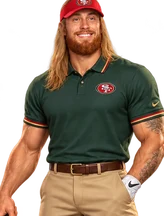
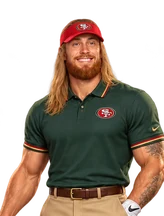
Fix portrait headroom and dim disabled game sliders

diff --git a/games/chaising-birdies/index.html b/games/chaising-birdies/index.html
@@ -25,10 +25,10 @@
   <link rel="preload" as="image" href="fairway-title-mobile.webp?v=1" media="(max-width:700px)" fetchpriority="high">
   <link rel="preload" as="image" href="fairway-title-desktop.webp?v=1" media="(min-width:701px)" fetchpriority="high">
   <link rel="preload" as="font" href="anton-latin.woff2" type="font/woff2" crossorigin>
-  <link rel="stylesheet" href="game.css?v=49">
+  <link rel="stylesheet" href="game.css?v=50">
   <script src="ball-physics.js?v=2" defer></script>
   <script src="player-skills.js?v=1" defer></script>
-  <script src="game.js?v=37" defer></script>
+  <script src="game.js?v=38" defer></script>
   <script type="application/ld+json">
 {
   "@context": "https://schema.org",

diff --git a/games/chaising-birdies/game.js b/games/chaising-birdies/game.js
@@ -56,7 +56,7 @@
   function portrait(character, attire) {
     const c = characters[character], wrapper = el('div', undefined, 'portrait');
     const img = el('img', undefined, 'player-portrait');
-    img.src = `players/${c.artwork}-portrait-${attire}.webp`;
+    img.src = `players/${c.artwork}-portrait-${attire}.webp?v=2`;
     img.width = 164; img.height = 216;
     img.loading = 'lazy';
     img.alt = `${c.name} in ${attire === 'golf' ? 'Niners golf attire' : 'football uniform'}`;

diff --git a/games/chaising-birdies/game.css b/games/chaising-birdies/game.css
@@ -68,3 +68,6 @@ footer{justify-content:flex-end}body:has(#play:not([hidden])) footer{display:non
 
 .player-skills{font:10px/1.5 monospace;color:var(--gold);margin:0 0 9px;text-transform:none;letter-spacing:0}
 .active-heading .player-skills{font-size:9px;margin:5px 0 0}
+
+/* Disabled sliders recede behind shot playback and completion cards. */
+.controls input[type=range]:disabled{opacity:.18;cursor:default}

diff --git a/games/chaising-birdies/optimize_assets.py b/games/chaising-birdies/optimize_assets.py
@@ -22,17 +22,17 @@ resized("chasing-birdies-logo-reverse.webp", "chasing-birdies-logo-small.webp", 
 resized("fairway-title.webp", "fairway-title-mobile.webp", 1280, quality=82)
 resized("fairway-title.webp", "fairway-title-desktop.webp", 1672, quality=82)
 
-# Match the previous sheet offsets at the 82 x 108 portrait size.
-# Crops retain the same heads and torsos, without downloading the full sheets.
-for player, offsets, top in [
-    ("purdy", {"uniform": 66, "golf": 239}, 9),
-    ("mccaffrey", {"uniform": 73, "golf": 230}, 3),
-    ("kittle", {"uniform": 61, "golf": 245}, 9),
+# Keep the full head or cap visible with space above it in every portrait.
+# A small transparent top margin also protects tight in-game portrait frames.
+for player, offsets in [
+    ("purdy", {"uniform": 66, "golf": 239}),
+    ("mccaffrey", {"uniform": 73, "golf": 230}),
+    ("kittle", {"uniform": 61, "golf": 245}),
 ]:
     with Image.open(ROOT / "players" / f"{player}.webp") as image:
         width = image.width / 4
         height = width * 108 / 82
-        y = height * top / 100
+        y = -12
         for attire, offset in offsets.items():
             x = width * offset / 100
             image.crop((round(x), round(y), round(x + width), round(y + height))).resize(
